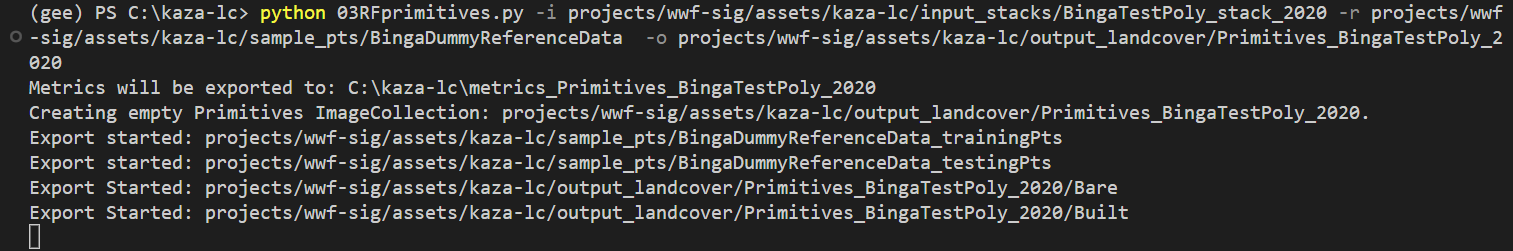
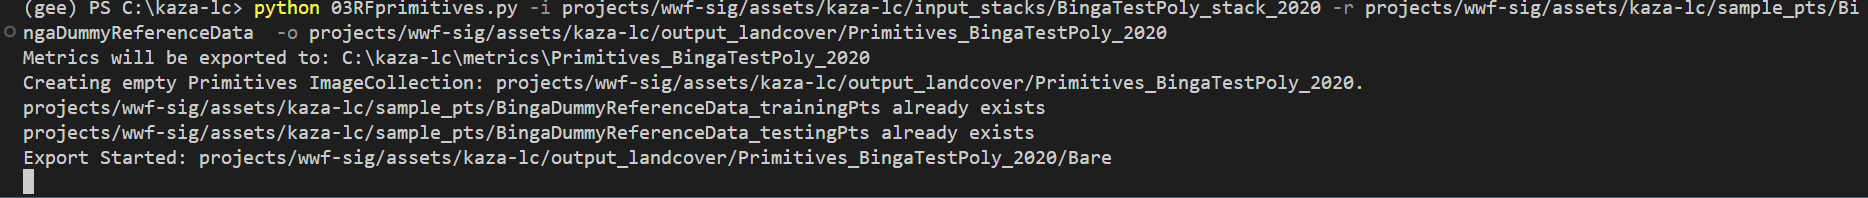
update README, scripts 2-4 passing tests

Changed region(s): [[0.0, 0.1212, 1.0, 1.0], [0.0, 0.0, 0.9941, 0.0909]]

diff --git a/03RFprimitives.py b/03RFprimitives.py
@@ -6,6 +6,7 @@ from pathlib import Path
 import pandas as pd
 import argparse
 from utils import helper
+from strata import lc_dct
 
 seed = 51515
 
@@ -56,9 +57,9 @@ def export_metrics(imp,oob,img):
     idx = dct.keys()
     df = pd.DataFrame(list, index = idx)
     LC = ee.Image(img).get('Class').getInfo()
-    df.to_csv(f"{p}/varImportance{LC}.csv")
+    df.to_csv(f"{metrics_path}/varImportance{LC}.csv")
     # OOB error to txt file
-    with open(os.path.join(p,f'oobError{LC}.txt'),mode='w') as f:
+    with open(os.path.join(metrics_path,f'oobError{LC}.txt'),mode='w') as f:
         f.write(ee.String(ee.Number(oob).format()).getInfo())
         f.close()
 
@@ -102,23 +103,9 @@ def RFprim(training_pts,input_stack,aoi):
 
 def primitives_to_collection(input_stack_path,reference_data_path,output_ic):
     """ export each RF primitive image into a collection"""
-    # # create empty ImageCollection 
-    # if output: # user-entered ImageCollection path
-    #     img_coll_path = output
-    #     outputbase = os.path.dirname(output)
-    # else:
-    #     outputbase = "projects/wwf-sig/assets/kaza-lc/output_landcover"
-    #     img_coll_path = f"{outputbase}/Primitives_{os.path.basename(input_stack_path)}" #default path
 
-    # print('output', output)        
-    # print('outputbase',outputbase)
-    # print('img_coll_path',img_coll_path)
-
-    # path error handling is in main() level, 
-    # so we just make the IC if it doesn't exist, parent folder already will have had to exist or it wouldn't have gotten this far
-    # can justify the use case that if the IC already exists, no point in coding in extra complexity to let them try ot export images in there if those don't exist..
-    # so actually just want to make the empty IC in this function, assuming it'll never already exist because error handling at main() will have caught that
-    f"Creating empty Primitives ImageCollection: {output_ic}."
+    # make the empty IC, assuming it'll never already exist because error handling at main() will have prohibited that
+    print(f"Creating empty Primitives ImageCollection: {output_ic}.")
     os.popen(f"earthengine create collection {output_ic}").read()
     
     # list of distinct LANDCOVER values
@@ -131,19 +118,6 @@ def primitives_to_collection(input_stack_path,reference_data_path,output_ic):
     # print('LANDCOVER class values: ',labels)
     # print('prim pt list indices: ',indices)
     
-    # if that RF prim img already exists, skip
-    # lc_classes = [lc_dct[labels[i]] for i in indices]
-    # print('LandCover Classes in Reference Data: ',lc_classes)
-    
-    # TODO: do we want to skip the whole analysis if the images already exsit? or keep it as it is to allow
-    #  exporting of metrics.
-
-    # to_export = [helper.check_exists(f"{img_coll_path}/{c}") == 1 for c in lc_classes]
-    # print(to_export)
-    # for i in indices:
-    #     if to_export[i]:
-    #         print(f'will export {lc_classes[i]}')
-    
     # Landtrendr change img
     lt_change = ee.Image("projects/wwf-sig/assets/kaza-lc/input_stacks/lt_change_v2")
     # Sentinel2 SR image stack
@@ -151,29 +125,43 @@ def primitives_to_collection(input_stack_path,reference_data_path,output_ic):
     
     aoi = input_stack.geometry()
         
-    # initizalize  featColl
     # user-provided FeatureCollection reference dataset, contains LANDCOVER property with integer values
     ref_data = ee.FeatureCollection(reference_data_path).filterBounds(aoi)
     
     # generate sample pts of input stack raster info inside reference data
     # tries to retrieve literally all pixel centers of input_stack that overlap ref_data polygons, 
     # may be able to adjust this with tileScale, otherwise may need a diff functionality to avoid OOM errors
-    sample_pts_w_inputs = (input_stack.sampleRegions(collection=ref_data, scale=10, tileScale=4, geometries=True)
-                            .filter(ee.Filter.notNull(input_stack.bandNames()))) # sample the input stack band values needed for classifier
-                            #.limit(100000) # get user memory limit exceeded using projects/wwf-sig/assets/kaza-lc/sample_pts/BingaDummyReferenceData,
-                            # could just limit it to a capped number of pts? wouldn't fix code erroring out on .sampleRegions()
+    # sample_pts_w_inputs = (input_stack.sampleRegions(collection=ref_data, scale=10, tileScale=4, geometries=True)
+    #                         .filter(ee.Filter.notNull(input_stack.bandNames())))
     
+    # Instead we rasterize the ref polygons on their LANDCOVER values, 
+    img_paint = ee.Image(0).paint(ref_data,'LANDCOVER').clip(aoi).selfMask().rename('LANDCOVER')
+
+    # then we can stack the LANDCOVER raster w/ the input_stack and do .stratifiedSample() to control # pts per class
+    # stratifiedSample(numPoints, classBand, region, scale, projection, seed, classValues, classPoints, dropNulls, tileScale, geometries)
+    sample_pts_w_inputs = (img_paint.addBands(input_stack).stratifiedSample(
+        numPoints=10000, # pts per class
+        classBand='LANDCOVER', 
+        region = aoi, 
+        scale = 10, 
+        projection = 'EPSG:32734',
+        seed = seed,
+        dropNulls = True,
+        geometries = True) 
+        )
+  
+
     training_pts, testing_pts = stratify_pts(sample_pts_w_inputs)
     
     # exports train/test FCs if don't exist
-    export_pts(training_pts,reference_data_path+"_training")
-    export_pts(testing_pts,reference_data_path+"_testing")    
+    export_pts(training_pts,reference_data_path+"_trainingPts")
+    export_pts(testing_pts,reference_data_path+"_testingPts")    
     
     for i in indices: # running one LC class at a time
         prim_pts = ee.FeatureCollection(ee.List(format_pts(training_pts)).get(i)) # format training pts to 1/0 prim format
         # print(f'Index {i}, PRIM is LANDCOVER:', prim_pts.filter(ee.Filter.eq('PRIM',1)).aggregate_histogram('LANDCOVER').getInfo())
         importance,oob,output = RFprim(prim_pts,input_stack,aoi) # run RF primitive model, get output image and metrics
-        export_img(ee.Image(output), img_coll_path, aoi) # a dry_run arg would go here
+        export_img(ee.Image(output), img_coll_path, aoi)
         export_metrics(importance,oob,output) 
         
     return
@@ -213,8 +201,6 @@ if __name__=="__main__":
         help="The full asset path for export. Defaults to: 'projects/wwf-sig/assets/kaza-lc/output_landcover/S2_[year]_Primitives_[aoi]' "
     )
 
-    # TODO: to incorporate this would want to maybe pull out the folder/ImageCollection/Image path constructions
-    #  out of primitives_to_collection() and into main() level function after parsing arguments
     parser.add_argument(
         "-d",
         "--dry_run",
@@ -255,12 +241,17 @@ if __name__=="__main__":
     
     # don't want to let user try to export new Images into pre-existing ImageCollection, would be messy to handle
     if helper.check_exists(img_coll_path) == 0:
-        raise AssertionError(f"Primitives ImageCollection already exists, use a new output ImageCollection: {img_coll_path}")
+        raise AssertionError(f"Primitives ImageCollection already exists: {img_coll_path}")
 
     # Construct local 'metrics' folder path from -o output or a default name if not provided
     cwd = os.getcwd()
-    metrics_path = os.path.join(cwd,f"metrics_{os.path.basename(img_coll_path)}")
-    
+    metrics_path = os.path.join(cwd,"metrics",os.path.basename(img_coll_path))
+    print(metrics_path)
+    # Check that LC strata in strata.py matches LANDCOVER values of input reference_data 
+    ref_data_values = ee.FeatureCollection(reference_data_path).aggregate_array('LANDCOVER').distinct().getInfo()
+    strata_values = list(lc_dct.keys())
+    assert ref_data_values == strata_values, f"'LANDCOVER' values provided in reference data does not match strata\n Reference Data 'LANDCOVER':{ref_data_values}, Strata:{strata_values}"
+
     # print output locations and exit
     if dry_run: 
         print(f"Would Export Primitives ImageCollection to: {img_coll_path}")
@@ -271,28 +262,8 @@ if __name__=="__main__":
         # make local metrics folder
         if not os.path.exists(metrics_path):
             Path(metrics_path).mkdir(parents=True)
+        print(f"Metrics will be exported to: {metrics_path}")
         
-        # Typology
-        # TODO: how to handle output primitives so they are labeled with class name appropriately?
-        # have them pass path to a csv that delineates typology so they don't have to modify code?
-        # have them provide a LABEL porperty in reference data with LANDCOVER so we can identify it programmatically..?
-    
-        lc_dct = {
-            1:'Bare',
-            2:'Built',
-            3:'Crop',
-            4:'Forest',
-            5:'Grass',
-            6:'Shrub',
-            7:'Water',
-            8:'Wetland'
-            }
-        
-        # lc_dct = {
-        #     0:'Crop',
-        #     1:'Forest',
-        # }
-        
-        primitives_to_collection(input_stack_path,reference_data_path,output)
+        primitives_to_collection(input_stack_path,reference_data_path,img_coll_path)
 
 

diff --git a/05accuracy.py b/05accuracy.py
@@ -9,6 +9,7 @@ import pandas as pd
 import argparse
 import matplotlib.pyplot as plt
 from utils import helper
+from strata import lc_dct
 
 if __name__=="__main__":
     ee.Initialize(project='wwf-sig')
@@ -49,29 +50,8 @@ if __name__=="__main__":
     output_path = args.output
 
 #%%
-    # TODO: similar issue with 03RFPrims.py, whether to require user to provide a typology file or to just have the classes numbered
-    # and user must know what each number corresponds to
-    
-    # for BingaTestReferenceData, only collected forest and crop points
-    # reducing from Prims to Landcover always returns values starting with 0 to n-1 classes as the strata values..
-    # labels = [0,1]
-    # lc_dct = {
-    #     0:'Crop',
-    #     1:'Forest',
-    #     }
-    
-    labels = [0,1,2,3,4,5,6,7]
-    lc_dct = {
-        0:'Bare',
-        1:'Built',
-        2:'Crop',
-        3:'Forest',
-        4:'Grass',
-        5:'Shrub',
-        6:'Water',
-        7:'Wetland'
-        }
-    
+    labels = list(lc_dct.keys())
+
     if helper.check_exists(image_id):
         raise ee.ee_exception.EEException('image does not exsit')
     elif helper.check_exists(sample_id):
@@ -118,8 +98,8 @@ if __name__=="__main__":
     # print(f'F1: {f1}')
 
     # to get class-wise accuracies, must construct a multi-label confusion matrix, outputs true/false positives/negatives per label
-    mcm = multilabel_confusion_matrix(true, pred, sample_weight=None)
-    # mcm = multilabel_confusion_matrix(true, pred, sample_weight=None, labels=labels, samplewise=False)
+    # mcm = multilabel_confusion_matrix(true, pred, sample_weight=None)
+    mcm = multilabel_confusion_matrix(true, pred, sample_weight=None, labels=labels, samplewise=False)
     # C:\Users\kyle\anaconda3\envs\gee\lib\site-packages\sklearn\metrics\_classification.py:1334: UndefinedMetricWarning: 
     # Precision is ill-defined and being set to 0.0 in labels with no predicted samples. Use `zero_division` parameter to control this behavior.
     

diff --git a/04generate_LC.py b/04generate_LC.py
@@ -6,6 +6,7 @@ from utils import helper
 # Take Image Collection of RF Primitives, perform pixel-wise maximum of all Primitive probability images to return single-band LC image
 
 # don't THINK we need the remapping of array values that John originally had in the function
+# TODO: yes i do think we will need to do the remapping. But how to ensure that the remap_from and remap_to are correct?
 def maxProbClassifyFromImage(image): # remapNum,orginalNum
   #// image: multiband image of probabilities
   #// remapNum: list, list of intergers 0-N matching the number of probability bands
@@ -23,7 +24,8 @@ def maxProbClassifyFromImage(image): # remapNum,orginalNum
 
 def maxProbClassifyFromImageCollection(imagecollection):
   image = imagecollection.toBands()
-  return maxProbClassifyFromImage(image)
+  return (maxProbClassifyFromImage(image)
+          .add(1))  # in case strata is 1-8 instead of 0-7. arrayImg computation returns img values 0-n-1 for a given strata
 
 
 # from = [0,1,2,3,4,5,6,7]

diff --git a/strata.py b/strata.py
@@ -1,0 +1,21 @@
+# lc_dct = {
+#             0:'Bare',
+#             1:'Built',
+#             2:'Crop',
+#             3:'Forest',
+#             4:'Grass',
+#             5:'Shrub',
+#             6:'Water',
+#             7:'Wetland'
+#             }
+
+lc_dct = {
+            1:'Bare',
+            2:'Built',
+            3:'Crop',
+            4:'Forest',
+            5:'Grass',
+            6:'Shrub',
+            7:'Water',
+            8:'Wetland'
+            }

diff --git a/README.md b/README.md
@@ -161,8 +161,9 @@ python 03RFprimitives.py -i projects/wwf-sig/assets/kaza-lc/input_stacks/BingaTe
 Once the script completes, check several things:
 1. Check that the exports have been submitted by looking at the Tasks tab in the [code editor](https://code.earthengine.google.com/)
 ![RFprims_tasklist](https://user-images.githubusercontent.com/51868526/185696700-f3ce7aed-45b8-4fc5-bb84-0141846d0f21.PNG)
-2. Go into your local `kaza-lc` folder on your computer, check that a new folder named at the reported location has been created. In the example above the folder was named `C:\kaza-lc\metrics_Primitives_BingaTestPoly_2020`.
+2. Go into your local `kaza-lc` folder on your computer, check that a new folder named at the reported location has been created. In the example above the folder was named `C:\kaza-lc\metrics\Primitives_BingaTestPoly_2020`.
 3. Investigate the metric files located within. 
+
 ![metricsFolder_inside](imgs/metrics_folder.PNG)
 
 There should be one oobError .txt file and one varImportance .csv file per land cover. The oobError .txt files contain the Out-of-Bag Error estimate for that land cover's Random Forest model. The varImportance .csv files report out the relative importance of each input feature (covariate) in the input data stack.
@@ -213,6 +214,8 @@ We will be using the `Stratified Estimation` script tool.
 ![consoleview](imgs/stratifiedEstimationConsole.PNG)
 
 * You can save or take a screenshot of the printed Accuracy and Area metrics. You can also retrieve the confusion/error matrices themselves as total counts or proportions by clicking the 'show error matrices' button in the UI. 
+
+*A good place to save these metrics is in the metrics subfolder generated during the RF Primitives analysis.*
 
 ![showmatrices](imgs/stratifiedEstimationErrorMatrices.PNG)
 
